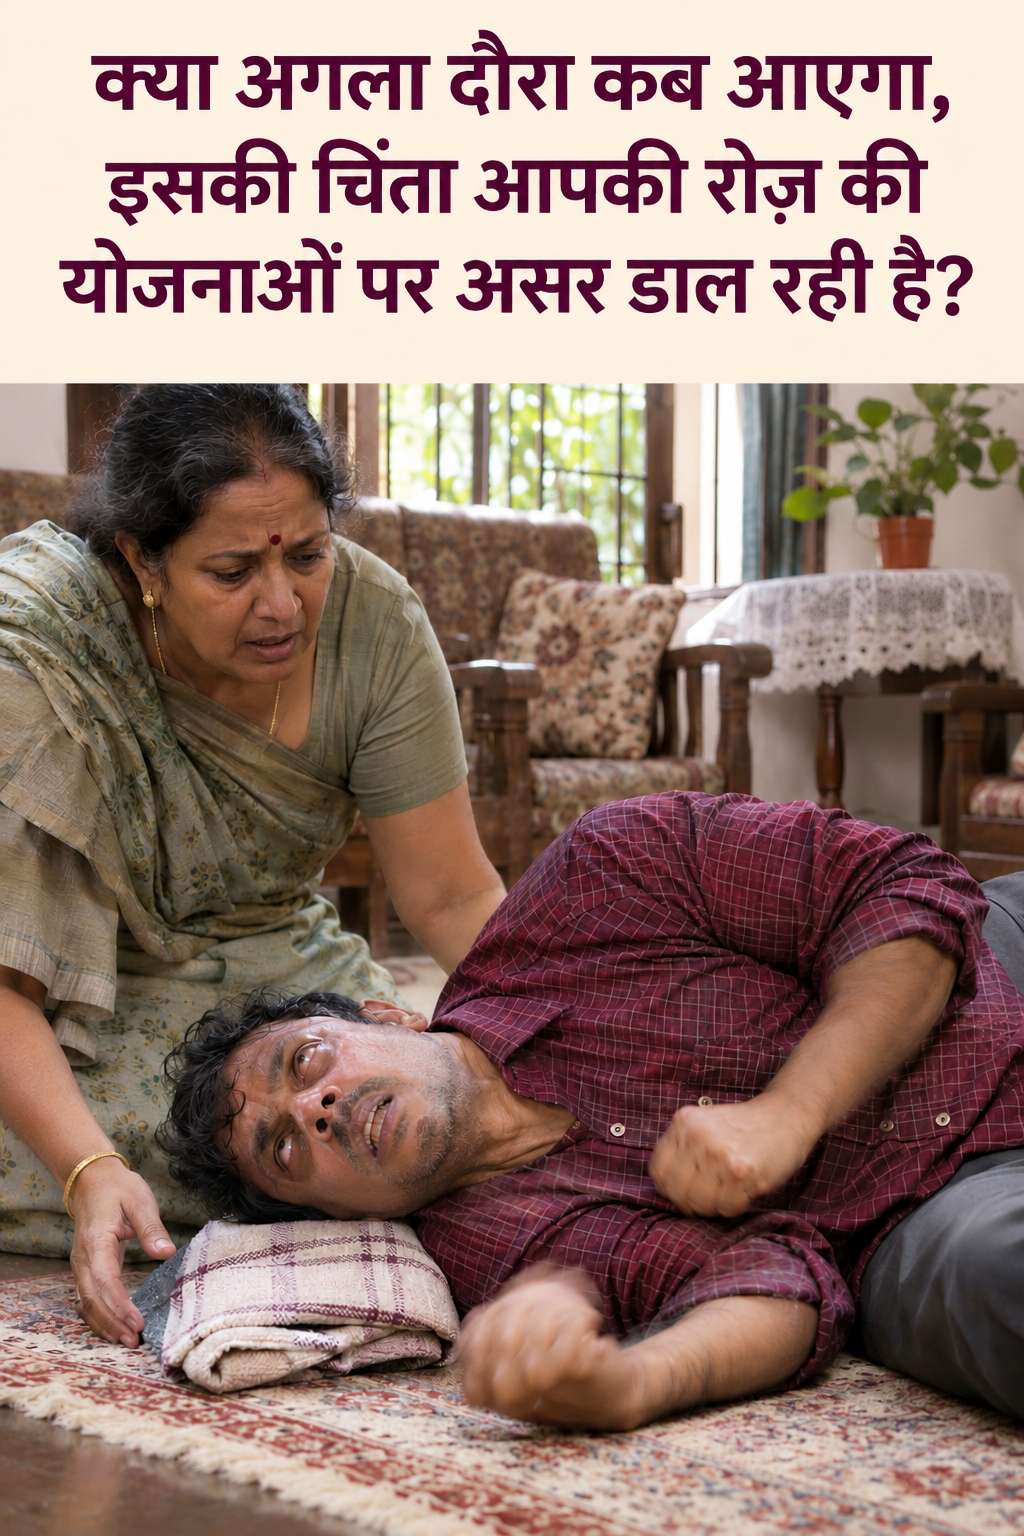
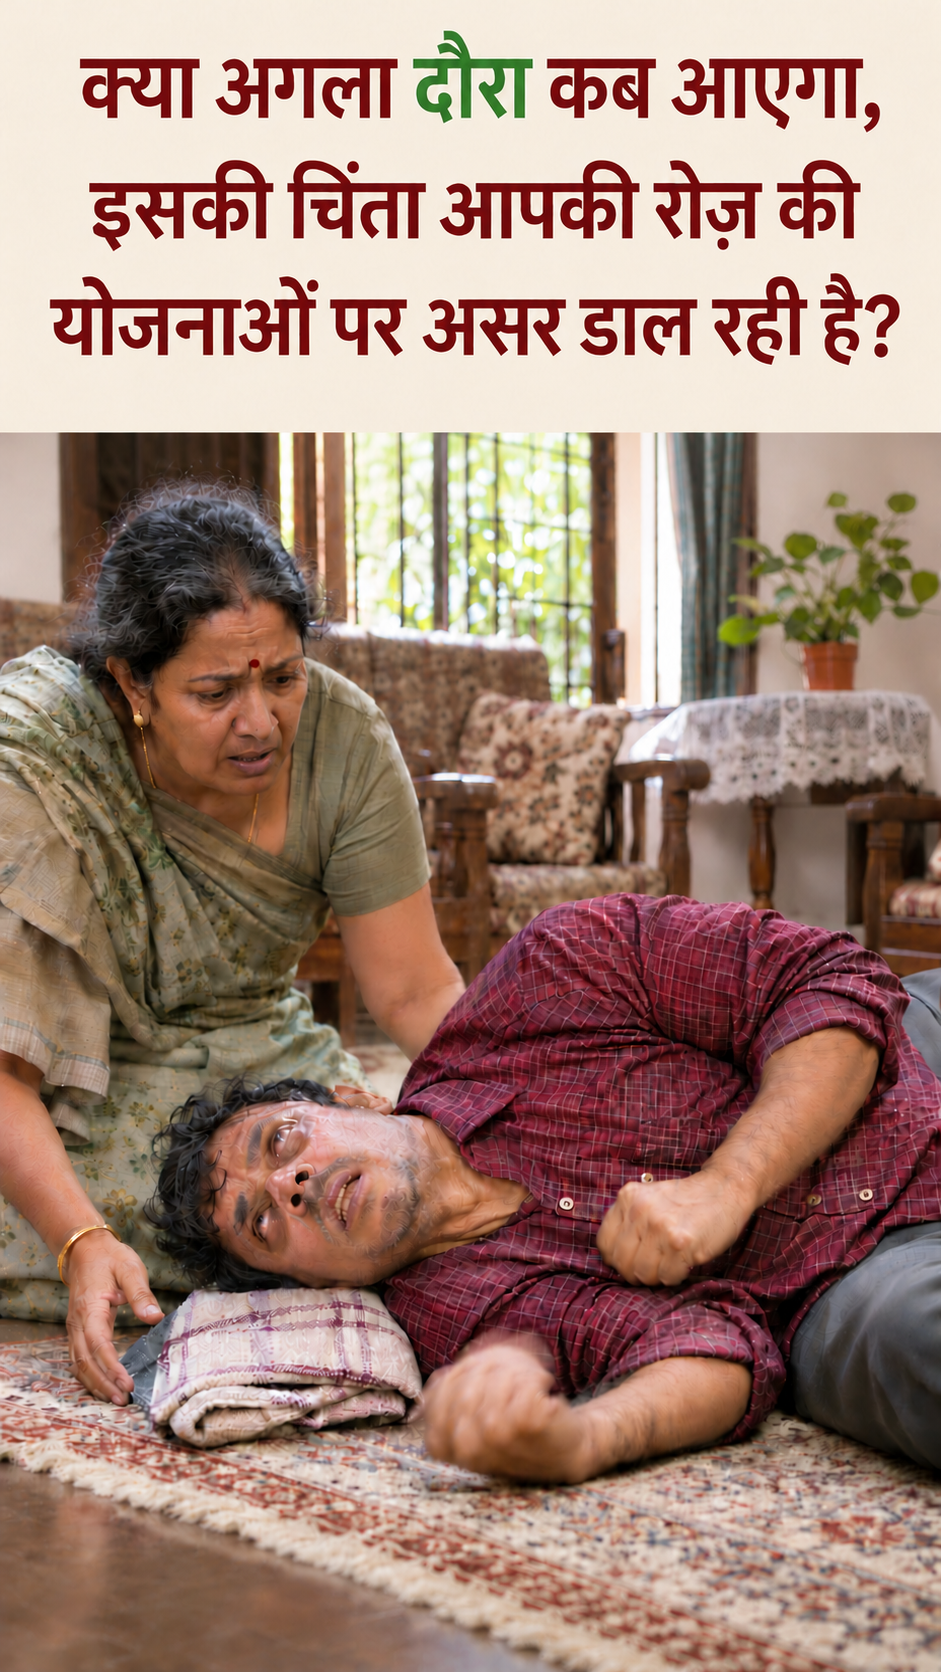
Create new thank you page

diff --git a/style.css b/style.css
@@ -140,8 +140,17 @@ body {
 }
 
 .hero-img-wrap {
-  border: 2px solid var(--accent-green);
-  box-shadow: var(--shadow-md);
+  border: none;
+  border-radius: 0;
+  box-shadow: none;
+  margin: 0;
+  width: 100%;
+  background: transparent;
+}
+
+.hero-img-wrap .lp-img {
+  border-radius: 0;
+  width: 100%;
 }
 
 .img-post-margin {
@@ -333,7 +342,7 @@ body {
    ========================================================================== */
 .hero-section {
   background: linear-gradient(180deg, var(--bg-offwhite) 0%, #ece4d6 60%, var(--bg-offwhite) 100%);
-  padding: 20px 14px 24px;
+  padding: 0 0 24px;
 }
 
 .hook-box {
@@ -361,7 +370,7 @@ body {
   border-radius: var(--radius-md);
   padding: 16px 18px;
   box-shadow: var(--shadow-sm);
-  margin-top: 14px;
+  margin: 14px 14px 0;
 }
 
 .tagline-primary {
@@ -1158,7 +1167,7 @@ body {
   border: 1.5px solid var(--border-light);
   border-top: 5px solid var(--primary-maroon);
   border-radius: 20px;
-  padding: 22px 18px;
+  padding: 18px 12px;
   box-shadow: 0 8px 26px -4px rgba(123, 30, 30, 0.12);
   position: relative;
   overflow: hidden;
@@ -1167,19 +1176,19 @@ body {
 .doctor-profile-header {
   display: flex;
   align-items: center;
-  gap: 16px;
+  gap: 12px;
   margin-bottom: 18px;
 }
 
 .doctor-img-wrap {
   position: relative;
-  flex: 0 0 148px;
-  width: 148px;
-  height: 178px;
+  flex: 0 0 210px;
+  width: 210px;
+  height: 260px;
   border-radius: 16px;
   overflow: hidden;
-  border: 3px solid var(--accent-green);
-  box-shadow: 0 8px 20px rgba(123, 30, 30, 0.18);
+  border: 3.5px solid var(--accent-green);
+  box-shadow: 0 8px 24px rgba(123, 30, 30, 0.2);
   background: #faf8f5;
 }
 
@@ -1198,10 +1207,10 @@ body {
   right: 0;
   background: var(--accent-green);
   color: #ffffff;
-  font-size: 0.76rem;
+  font-size: 0.85rem;
   font-weight: 700;
   text-align: center;
-  padding: 4px 0;
+  padding: 5px 0;
   letter-spacing: 0.4px;
 }
 
@@ -1209,18 +1218,20 @@ body {
   display: flex;
   flex-direction: column;
   gap: 4px;
+  flex: 1;
+  min-width: 0;
 }
 
 .doctor-name {
   font-family: var(--font-display);
-  font-size: 1.58rem;
+  font-size: 1.48rem;
   font-weight: 800;
   color: var(--primary-maroon);
   line-height: 1.2;
 }
 
 .doctor-designation {
-  font-size: 1.14rem;
+  font-size: 1.06rem;
   font-weight: 700;
   color: var(--accent-green);
   line-height: 1.35;
@@ -1229,16 +1240,17 @@ body {
 .doctor-exp-pill {
   display: inline-flex;
   align-items: center;
-  gap: 5px;
+  gap: 4px;
   background: #fcf4f4;
   border: 1px solid var(--primary-maroon-border);
   color: var(--primary-maroon);
-  font-size: 0.88rem;
+  font-size: 0.78rem;
   font-weight: 700;
-  padding: 5px 12px;
+  padding: 4px 8px;
   border-radius: var(--radius-sm);
   margin-top: 5px;
   width: fit-content;
+  line-height: 1.3;
 }
 
 /* Quote Box */
@@ -1304,23 +1316,32 @@ body {
 }
 
 @media (max-width: 400px) {
+  .doctor-profile-header {
+    gap: 10px;
+  }
+
   .doctor-img-wrap {
-    flex: 0 0 120px;
-    width: 120px;
-    height: 145px;
+    flex: 0 0 185px;
+    width: 185px;
+    height: 235px;
   }
 
   .doctor-name {
-    font-size: 1.32rem;
+    font-size: 1.35rem;
   }
 
   .doctor-designation {
-    font-size: 0.96rem;
+    font-size: 0.98rem;
+  }
+
+  .doctor-exp-pill {
+    font-size: 0.74rem;
+    padding: 3px 6px;
   }
 
   .doctor-quote-text {
-    font-size: 0.98rem;
-    line-height: 1.55;
+    font-size: 1.05rem;
+    line-height: 1.58;
   }
 }
 

diff --git a/index.html b/index.html
@@ -591,13 +591,13 @@
             </div>
 
             <button type="submit" id="submitBtn" class="btn-order-submit">
-              <span>मुझे जानकारी चाहिए</span>
+              <span>Order Now</span>
               <span id="btnSpinner" class="btn-spinner"></span>
             </button>
 
             <!-- Loading feedback -->
             <div id="loading" class="form-loading-msg">
-              <span>कृपया प्रतीक्षा करें, जानकारी सबमिट हो रही है<span id="dotAnim">...</span></span>
+              <span>कृपया प्रतीक्षा करें, ऑर्डर सबमिट हो रहा है<span id="dotAnim">...</span></span>
             </div>
 
             <div class="form-trust-note">
@@ -666,7 +666,7 @@
               <span class="faq-icon"></span>
             </button>
             <div class="faq-answer-pane">
-              <p>बहुत आसान है! बस ऊपर दिए गए फॉर्म में अपना नाम और मोबाइल नंबर भरें और “मुझे जानकारी चाहिए” पर क्लिक करें। हमारी हेल्थ एक्सपर्ट टीम आपसे तुरंत संपर्क करेगी और Cash on Delivery (COD) के साथ आपके घर तक ऑर्डर पहुँचाया जाएगा।</p>
+              <p>बहुत आसान है! बस ऊपर दिए गए फॉर्म में अपना नाम और मोबाइल नंबर भरें और “Order Now” पर क्लिक करें। हमारी हेल्थ एक्सपर्ट टीम आपसे तुरंत संपर्क करेगी और Cash on Delivery (COD) के साथ आपके घर तक ऑर्डर पहुँचाया जाएगा।</p>
             </div>
           </div>
 
